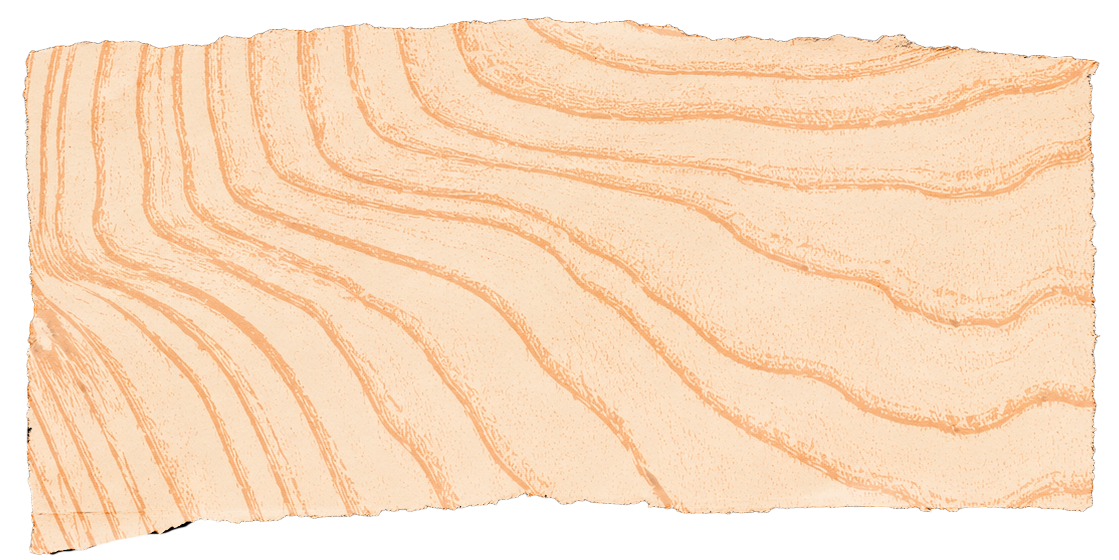
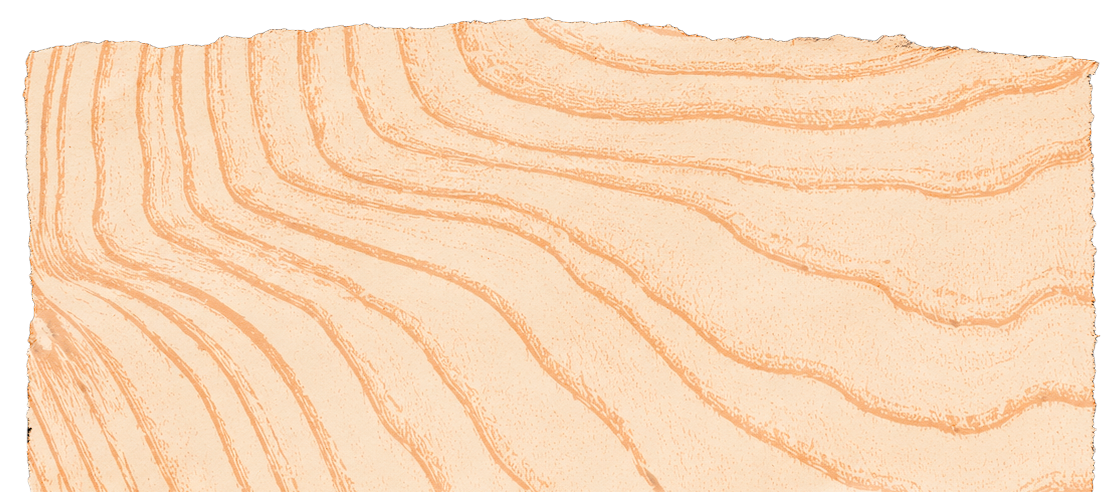
cambio imagenes

diff --git a/css/styles.css b/css/styles.css
@@ -1555,7 +1555,11 @@ body::after {
   margin: 0 auto;
   text-align: center;
 }
-.materia-header .section-title { margin: 0.75rem 0 1.25rem; }
+.materia-header .section-title {
+  margin: 0.75rem 0 1.25rem;
+  font-size: clamp(2.6rem, 5.5vw, 4.8rem);
+  line-height: 0.95;
+}
 .materia-bajada {
   font-size: clamp(1rem, 1.4vw, 1.2rem);
   line-height: 1.7;
@@ -1566,13 +1570,14 @@ body::after {
 .materia-bajada strong { color: var(--red); }
 .materia-claim {
   font-family: var(--ff-display);
-  font-size: clamp(1.7rem, 3.6vw, 3rem);
-  line-height: 1.05;
+  font-size: clamp(0.9rem, 2vw, 1.6rem);
+  line-height: 1.1;
   letter-spacing: 0.02em;
   text-transform: uppercase;
   color: var(--red);
   text-align: center;
-  max-width: 780px;
+  white-space: nowrap;
+  max-width: none;
   margin: clamp(2.5rem, 5vw, 4rem) auto 0;
 }
 
@@ -1782,7 +1787,6 @@ body::after {
 .madera-card-inner {
   position: relative;
   width: 100%;
-  aspect-ratio: 3 / 2;   /* rectángulo apaisado */
   transform-style: preserve-3d;
   transition: transform 0.7s cubic-bezier(.22,1,.36,1);
 }
@@ -1794,26 +1798,37 @@ body::after {
 
 .madera-card-front,
 .madera-card-back {
-  position: absolute;
-  inset: 0;
-  overflow: hidden;
-  border-radius: 4px;
   backface-visibility: hidden;
   -webkit-backface-visibility: hidden;
 }
-/* Dorso: rectángulo rojo con la info */
+/* El frente (imagen PNG) define el tamaño/forma real de la card */
+.madera-card-front { position: relative; }
+/* Dorso: rojo recortado con la MISMA silueta rasgada del PNG (no un rectángulo) */
 .madera-card-back {
+  position: absolute;
+  inset: 0;
   transform: rotateY(180deg);
-  background: linear-gradient(155deg, #e60a0a 0%, var(--red) 45%, #a80000 100%);
+  background: transparent;
 }
+/* La misma imagen (silueta rasgada) tintada de rojo, como fondo del dorso */
+.madera-back-fill {
+  position: absolute;
+  inset: 0;
+  width: 100%;
+  height: 100%;
+  object-fit: fill;
+  filter: brightness(0.5) sepia(1) saturate(8) hue-rotate(-28deg);
+  z-index: 0;
+  pointer-events: none;
+}
+.madera-card-back h4,
+.madera-card-back p { position: relative; z-index: 1; }
 
-/* Cara frontal: la madera llena el rectángulo (escalada para recortar el canto rasgado del PNG) */
+/* Cara frontal: la imagen PNG con su forma rasgada real */
 .madera-card-front img {
   display: block;
   width: 100%;
-  height: 100%;
-  object-fit: cover;
-  transform: scale(1.2);
+  height: auto;
 }
 .madera-card-front .madera-num {
   position: absolute;

diff --git a/js/main.js b/js/main.js
@@ -311,6 +311,17 @@ maderaCards.forEach(card => {
   card.addEventListener('keydown', e => {
     if (e.key === 'Enter' || e.key === ' ') { e.preventDefault(); flip(); }
   });
+  // El dorso: la misma imagen (silueta) tintada de rojo de fondo
+  const frontImg = card.querySelector('.madera-card-front img');
+  const back = card.querySelector('.madera-card-back');
+  if (frontImg && back && !back.querySelector('.madera-back-fill')) {
+    const fill = document.createElement('img');
+    fill.className = 'madera-back-fill';
+    fill.src = frontImg.getAttribute('src');
+    fill.alt = '';
+    fill.setAttribute('aria-hidden', 'true');
+    back.prepend(fill);
+  }
 });
 
 /* Cards de papel rasgado: al tocar, esa card se da vuelta (info en el dorso) y pasa al frente */

diff --git a/index.html b/index.html
@@ -298,7 +298,7 @@
   <div class="materia-header">
     <span class="section-tag dark">★ Materia prima</span>
     <h2 class="section-title dark">SALÍ DE LO<br><span class="hl">CONVENCIONAL</span></h2>
-    <p class="materia-bajada">La madera define el <strong>60%</strong> del carácter tonal del instrumento. El otro <strong>40%</strong> lo forjás vos al tocarlo.</p>
+    <p class="materia-bajada">La madera define el <strong>60%</strong> del carácter tonal del instrumento.<br>El otro <strong>40%</strong> lo forjás vos al tocarlo.</p>
   </div>
 
   <!-- Flip-cards de maderas del taller -->
